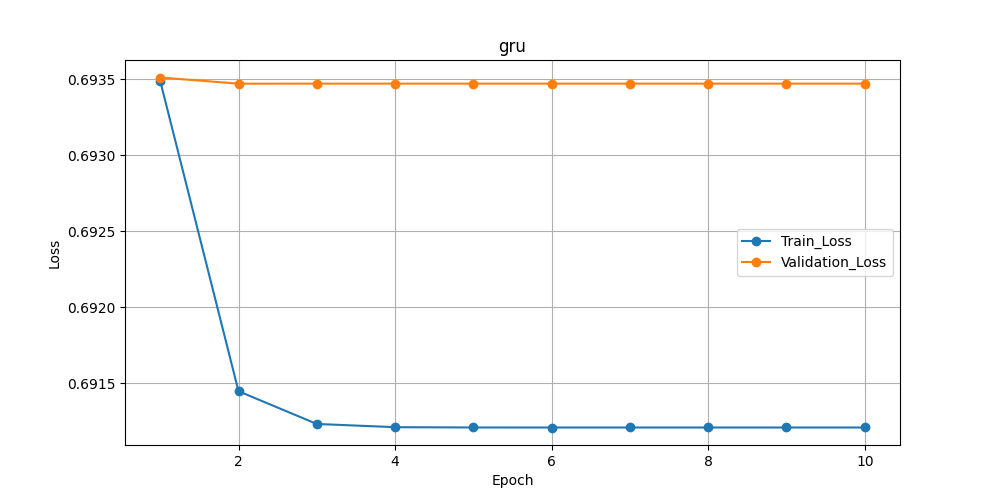
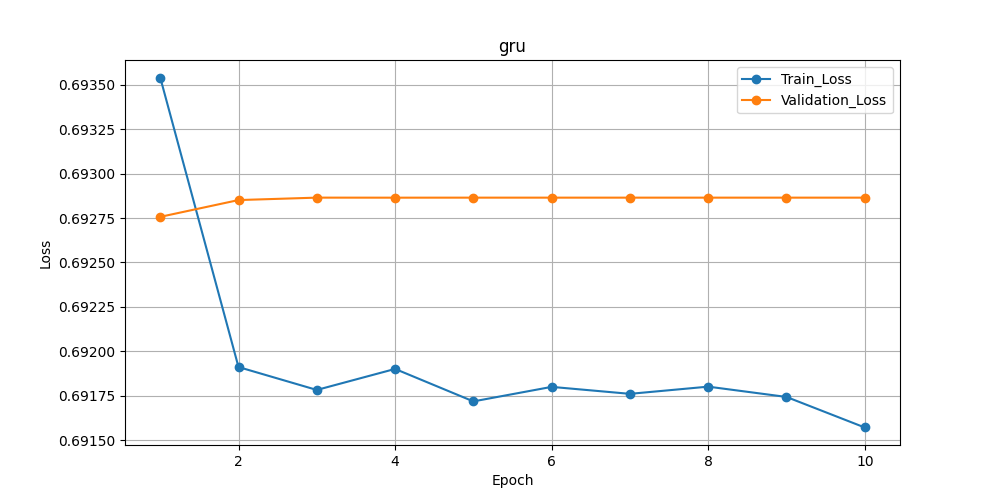
2024-03-26

diff --git a/2024-03-22/data.py b/2024-03-22/data.py
@@ -1,108 +1,71 @@
 import os
 import torch
 import pandas as pd
-import numpy as np
 
-from collections import Counter
+from torch.utils.data import Dataset, random_split
 from torchtext.data.utils import get_tokenizer
-from sklearn.model_selection import train_test_split
-from torch.utils.data import Dataset
+from torchtext.vocab import build_vocab_from_iterator
 
 class IMDBDataset(Dataset):
-    def __init__(self, root, threshold=3, max_len=500, mode='train'):
-        self.root = os.path.join(root, "IMDBDataset.csv")
-        self.mode = mode
-        self.df = pd.read_csv(self.root)
-        self.tokenizer = get_tokenizer("basic_english")
-
-        self.df['sentiment'] = self.df['sentiment'].replace(['positive', 'negative'], [1, 0])
-        texts, labels = self.df['review'], self.df['sentiment']
-        tokenized_texts = self._tokenize(texts)
-
-        X_train, X_test, y_train, y_test = train_test_split(tokenized_texts, labels, test_size=0.5, 
-                                                    random_state=0, stratify=labels)
-        X_train, X_val, y_train, y_val = train_test_split(X_train, y_train, test_size=0.2,
-                                                        random_state=0, stratify=y_train)
+    def __init__(self, root):
+        super().__init__()
         
-        self.vocab = self._build_vocab(X_train + X_val, threshold)
-        self.index_to_vocab = {v: k for k, v in self.vocab.items()}
+        # setting
+        self.root = os.path.join(root, "train.csv")
+        self.data = pd.read_csv(self.root) # data load
+        self.tokenizer = get_tokenizer('basic_english') # tokenizer 정의
         
-        if self.mode == 'train':
-            text_data, label_data = X_train, y_train
-        elif self.mode == 'val':
-            text_data, label_data = X_val, y_val
-        elif self.mode == 'test':
-            text_data, label_data = X_test, y_test
+        # text 데이터
+        raw_text = self.data['text']
+        self.vocab = self._build_vocab(self.data['text']) # vocab 생성
 
-        text_data = self._text_to_seq(text_data, self.vocab)
-        self.text_data = self._pad_sequence(text_data, max_len)
+        # text 데이터 전처리
+        text_data = []
+        for sent in raw_text:
+            tokenized_sent = self.tokenizer(sent) # 문장을 tokenize
+            encoded_sent = self.vocab(tokenized_sent) # vocab을 통해 encoding된 리스트 반환
+            text_data.append(encoded_sent)
+        self.text_data = text_data
+        
+        # label 데이터
+        label_data = self.data['sentiment'].replace(['pos', 'neg'], [1, 0])
         self.label_data = label_data.to_list()
-
+    
     def __len__(self):
         return len(self.text_data)
     
     def __getitem__(self, idx):
         text = torch.tensor(self.text_data[idx], dtype=torch.long)
         label = self.label_data[idx]
+
         return text, label
-        
-    def _tokenize(self, sents):
-        tokenized_sents = []
-        for sent in sents:
-            tokenized_sent = self.tokenizer(sent)
-            tokenized_sent = [word.lower() for word in tokenized_sent]
-            tokenized_sents.append(tokenized_sent)
-        
-        return tokenized_sents
 
-    def _build_vocab(self, tokenized_texts, threshold):
-        word_list = []
-        for sent in tokenized_texts:
-            for word in sent:
-                word_list.append(word)
-        word_count = Counter(word_list)
-        vocab = sorted(word_count, key=word_count.get, reverse=True)
-        
-        rare_cnt = 0
-        for _, value in word_count.items():
-            if (value < threshold):
-                rare_cnt += 1
-        vocab_size = len(word_count) - rare_cnt
-        vocab = vocab[:vocab_size]
+    # tokenizer를 활용하여 text tokenize
+    def _yield_tokens(self, raw_text):
+        for sent in raw_text:
+            yield self.tokenizer(sent)
 
-        word_to_idx = {}
-        word_to_idx['<PAD>'] = 0 # padding token
-        word_to_idx['<UNK>'] = 1 # unknown token
+    # tokenized된 text를 통해 vocab 생성
+    def _build_vocab(self, raw_text):
+        vocab = build_vocab_from_iterator(self._yield_tokens(raw_text), specials=["<pad>", "<unk>"])
+        vocab.set_default_index(vocab["<pad>"])
+        vocab.set_default_index(vocab["<unk>"])
+        return vocab
 
-        for idx, word in enumerate(vocab):
-            word_to_idx[word] = idx + 2
-        
-        return word_to_idx
+    # train과 validation 데이터셋을 ratio만큼 분할 (8:2)
+    def split_dataset(self, ratio=0.2):
+        data_size = len(self)
+        val_size = int(data_size * ratio)
+        train_size = data_size - val_size
 
-    def _text_to_seq(self, text, word_to_idx):
-        encoded = []
-        for sent in text:
-            seq = []
-            for word in sent:
-                try:
-                    seq.append(word_to_idx[word])
-                except KeyError:
-                    seq.append(word_to_idx['<UNK>'])
-            
-            encoded.append(seq)
-        
-        return encoded
-
-    def _pad_sequence(self, text, max_len):
-        features = np.zeros((len(text), max_len), dtype=int)
-        for i, sent in enumerate(text):
-            if len(sent) != 0:
-                features[i, :len(sent)] = np.array(sent)[:max_len]
-        return features
+        train_dataset, val_dataset = random_split(self, [train_size, val_size])
+        return train_dataset, val_dataset
 
 if __name__ == '__main__':
-    data_path = '../../datasets/'
-    train_dataset = IMDBDataset(data_path, mode='train')
+    data_path = '../../datasets/IMDB/'
+    dataset = IMDBDataset(data_path)
+    train_dataset, _ = dataset.split_dataset(ratio=0.2)
+    
     text, label = train_dataset[0]
     print(f"text shape: {text.shape}")
     

diff --git a/2024-03-22/train.py b/2024-03-22/train.py
@@ -6,6 +6,7 @@ import torch.distributed as dist
 
 from torch.nn.parallel import DistributedDataParallel
 from torch.utils.data import DataLoader, DistributedSampler
+from torch.nn.utils.rnn import pad_sequence
 from torch.nn import CrossEntropyLoss
 from torch.optim import SGD, Adam
 from torch.optim.lr_scheduler import StepLR, CosineAnnealingLR
@@ -16,9 +17,8 @@ from net import SentenceClassifier
 
 parser = argparse.ArgumentParser()
 # -- hyperparameter about data
-parser.add_argument("--data_path", type=str, default="../../datasets/")
-parser.add_argument("--threshold", type=int, default=3)
-parser.add_argument("--max_len", type=int, default=500)
+parser.add_argument("--data_path", type=str, default="../../datasets/IMDB/")
+parser.add_argument("--ratio", type=float, default=0.2)
 
 # -- hyperparameter about ddp &amp
 parser.add_argument("--is_ddp", type=bool, default=False)
@@ -26,8 +26,8 @@ parser.add_argument("--is_amp", type=bool, default=False)
 
 # -- hyperparameter about model
 parser.add_argument("--model", type=str, default='gru')
-parser.add_argument("--hidden_size", type=int, default=128)
-parser.add_argument("--embed_size", type=int, default=100)
+parser.add_argument("--hidden_size", type=int, default=64)
+parser.add_argument("--embed_size", type=int, default=128)
 parser.add_argument("--n_layers", type=int, default=1)
 parser.add_argument("--dropout", type=float, default=0.0)
 parser.add_argument("--bidirectional", type=bool, default=False)
@@ -54,6 +54,14 @@ def plot_loss(train_losses, val_losses):
     plt.grid()
     plt.savefig(f'./result/{title}.png')
 
+# batch 내의 모든 text 데이터 길이를 동일한 길이로 padding
+def collate_fn(batch):
+    text, label = zip(*batch)
+    padded_text = pad_sequence(text, batch_first=True, padding_value=0)
+    label = torch.tensor(label, dtype=torch.long)
+    return padded_text, label
+
+# optimizer type 설정
 def get_optimizer():
     if args.optimizer == 'SGD':
         return SGD
@@ -62,6 +70,7 @@ def get_optimizer():
     else:
         raise ValueError(args.optimizer)
 
+# scheduler type 설정
 def get_scheduler():
     if args.lr_scheduler == "Step":
         return StepLR
@@ -74,9 +83,9 @@ def main():
     device = torch.device("cuda" if torch.cuda.is_available() else "cpu")
     
     # IMDBDataset
-    train_dataset, val_dataset = IMDBDataset(args.data_path, threshold=args.threshold, max_len=args.max_len, mode='train'), \
-                                 IMDBDataset(args.data_path, threshold=args.threshold, max_len=args.max_len, mode='val')
-    vocab_size = len(train_dataset.vocab)
+    dataset = IMDBDataset(args.data_path)
+    train_dataset, val_dataset  = dataset.split_dataset(ratio=args.ratio)
+    vocab_size = len(dataset.vocab)
     
     # set the ddp
     if args.is_ddp:
@@ -91,9 +100,9 @@ def main():
     
     # define the dataloader
     train_loader, val_loader = DataLoader(train_dataset, batch_size=args.batch_size, sampler=train_sampler, 
-                                          shuffle=(not args.is_ddp), num_workers=4, pin_memory=True), \
+                                          shuffle=(not args.is_ddp), num_workers=4, pin_memory=True, collate_fn=collate_fn), \
                                DataLoader(val_dataset, batch_size=args.batch_size, 
-                                          shuffle=False, num_workers=4, pin_memory=True)
+                                          shuffle=False, num_workers=4, pin_memory=True, collate_fn=collate_fn)
 
     # define the model instance
     net = SentenceClassifier(vocab_size, hidden_size=args.hidden_size, embed_size=args.embed_size, n_layers=args.n_layers, 
@@ -138,6 +147,7 @@ def main():
         for inputs, labels in tqdm(train_loader):
             inputs = inputs.to(device)
             labels = labels.to(device)
+            optimizer.zero_grad()
 
             if scaler is not None:
                 with torch.cuda.amp.autocast():
@@ -147,9 +157,7 @@ def main():
                 scaler.scale(loss).backward()
                 scaler.step(optimizer)
                 scaler.update()
-                optimizer.zero_grad(set_to_none=True)
             else:
-                optimizer.zero_grad()
                 outputs = net(inputs)
                 loss = criterion(outputs, labels)
                 
